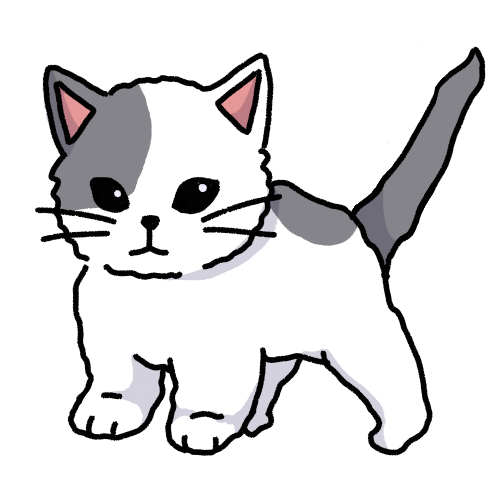
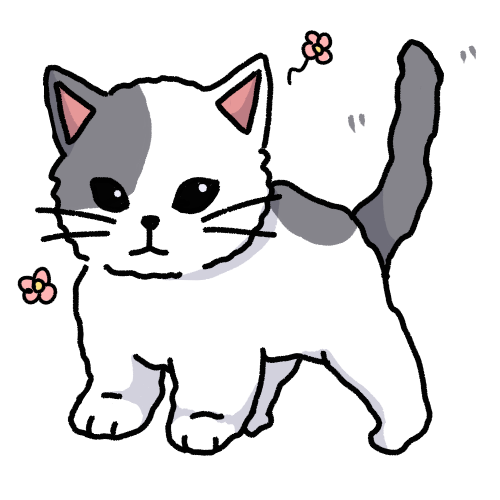
cat snack changed

diff --git a/Reborn/Screens/RebornScreens/dog/DiaryScreen.js b/Reborn/Screens/RebornScreens/dog/DiaryScreen.js
@@ -35,23 +35,23 @@ const DiaryScreen = ({ navigation: { navigate } }) => {
   );
 
   const questionArray = [
-    `우리가 처음 만났던 날 기억 나?\n우리가 언제 어디서 어떻게 만나게 되었는지, 그날 있었던 일에 대해 나에게 말해줄래?\n`,
+    `우리가 처음 만났던 날 기억 나?\n우리가 언제 어디서 어떻게 만나게 되었는지, 그날 있었던 일에 대해 나에게 말해줄래?`,
     `내 이름을 ` +
       globalPetName +
-      `(이)라고 지은 특별한 이유가 있어?\n내가 가진 독특한 성격이나 습관, 특징이 있었을까?\n나로 인해 웃겼던 에피소드가 있다면 말해줘!\n우리가 언제 어디서 어떻게 만나게 되었는지, 내 이름은 왜 ` +
+      `(이)라고 지은 특별한 이유가 있어?\n내가 가진 독특한 성격이나 습관, 특징이 있었을까? 나로 인해 웃겼던 에피소드가 있다면 말해줘 우리가 언제 어디서 어떻게 만나게 되었는지, 내 이름은 왜 ` +
       globalPetName +
-      `(이)라고 짓게 되었는지,\n그날 있었던 일에 대해 나에게 말해줄래?`,
-    `나와 함께한 가장 특별한 순간은 언제였어?\n가장 즐거웠던 순간, 함께했던 여행에 대해서도 좋아!\n그 순간이 어떻게 왜 특별했는지 이야기 해줄래?`,
-    `나와 함께 지내면서 너에게 어떤 변화가 있었을까?\n나에게 위로를 받았거나 나로 인해 한 층\n성장하게 된 일이 있었다면 말해 줘!`,
-    `우리가 함께한 시간 동안\n나는 너에게 어떤 의미였는지 알고 싶어!`,
+      `(이)라고 짓게 되었는지,그날 있었던 일에 대해 나에게 말해줄래?`,
+    `나와 함께한 가장 특별한 순간은 언제였어?\n가장 즐거웠던 순간, 함께했던 여행에 대해서도 좋아! 그 순간이 어떻게 왜 특별했는지 이야기 해줄래?`,
+    `나와 함께 지내면서 너에게 어떤 변화가 있었을까?\n나에게 위로를 받았거나 나로 인해 한 층 성장하게 된 일이 있었다면 말해 줘!`,
+    `우리가 함께한 시간 동안 나는 너에게 어떤 의미였는지 알고 싶어!`,
   ];
 
   const hintArray = [
-    `첫만남을 기록해보세요`,
-    `반려동물 이름의 의미를 기록해보세요`,
-    `함께 했던 특별한 순간을 기록해보세요`,
-    `반려동물과 함께 지내며 성장한 순간을 기록해보세요`,
-    `반려동물이 나에게 어떤 의미였는지 기록해보세요`,
+    `첫만남을 기록해 보세요`,
+    `반려동물 이름의 의미를 기록해 보세요`,
+    `함께 했던 특별한 순간을 기록해 보세요`,
+    `반려동물과 함께 지내며 성장한 순간을 기록해 보세요`,
+    `반려동물이 나에게 어떤 의미였는지 기록해 보세요`,
   ];
 
   // refresh

diff --git a/Reborn/Screens/RebornScreens/dog/SnackScreen.js b/Reborn/Screens/RebornScreens/dog/SnackScreen.js
@@ -136,6 +136,11 @@ const SnackScreen = ({ navigation: { navigate } }) => {
         ) : (
           ""
         )}
+        {isFeed ? (
+          <SnackImage source={catsnackimageURL} resizeMode="center" />
+        ) : (
+          ""
+        )}
       </ImageBackground>
     </Container>
   );
@@ -211,14 +216,14 @@ const DraggableImage = ({ source, style, isFeed, setisFeed }) => {
     PanResponder.create({
       onStartShouldSetPanResponder: () => true,
       onPanResponderMove: (_, { dx, dy }) => {
-        //console.log({ dx, dy });
+        console.log({ dx, dy });
         position.setValue({ x: dx, y: dy });
       },
       onPanResponderGrant: () => {
         onPressIn.start();
       },
       onPanResponderRelease: (_, { dx, dy }) => {
-        if (dx > -100 && dy > 240 && dx < -20 && dy < 310) {
+        if (dx > -150 && dy > 200 && dx < -10 && dy < 350) {
           setisFeed(!isFeed);
           Animated.sequence([
             Animated.parallel([onDropScale, onDropOpacity]),
@@ -260,4 +265,11 @@ const DogImage = styled.Image`
   height: 50%;
   margin-left: 30%;
   margin-top: 55%;
+`;
+
+const SnackImage = styled.Image`
+  width: 50%;
+  height: 45%;
+  position: absolute;
+  margin: 72% 0% 0% 10%;
 `;
